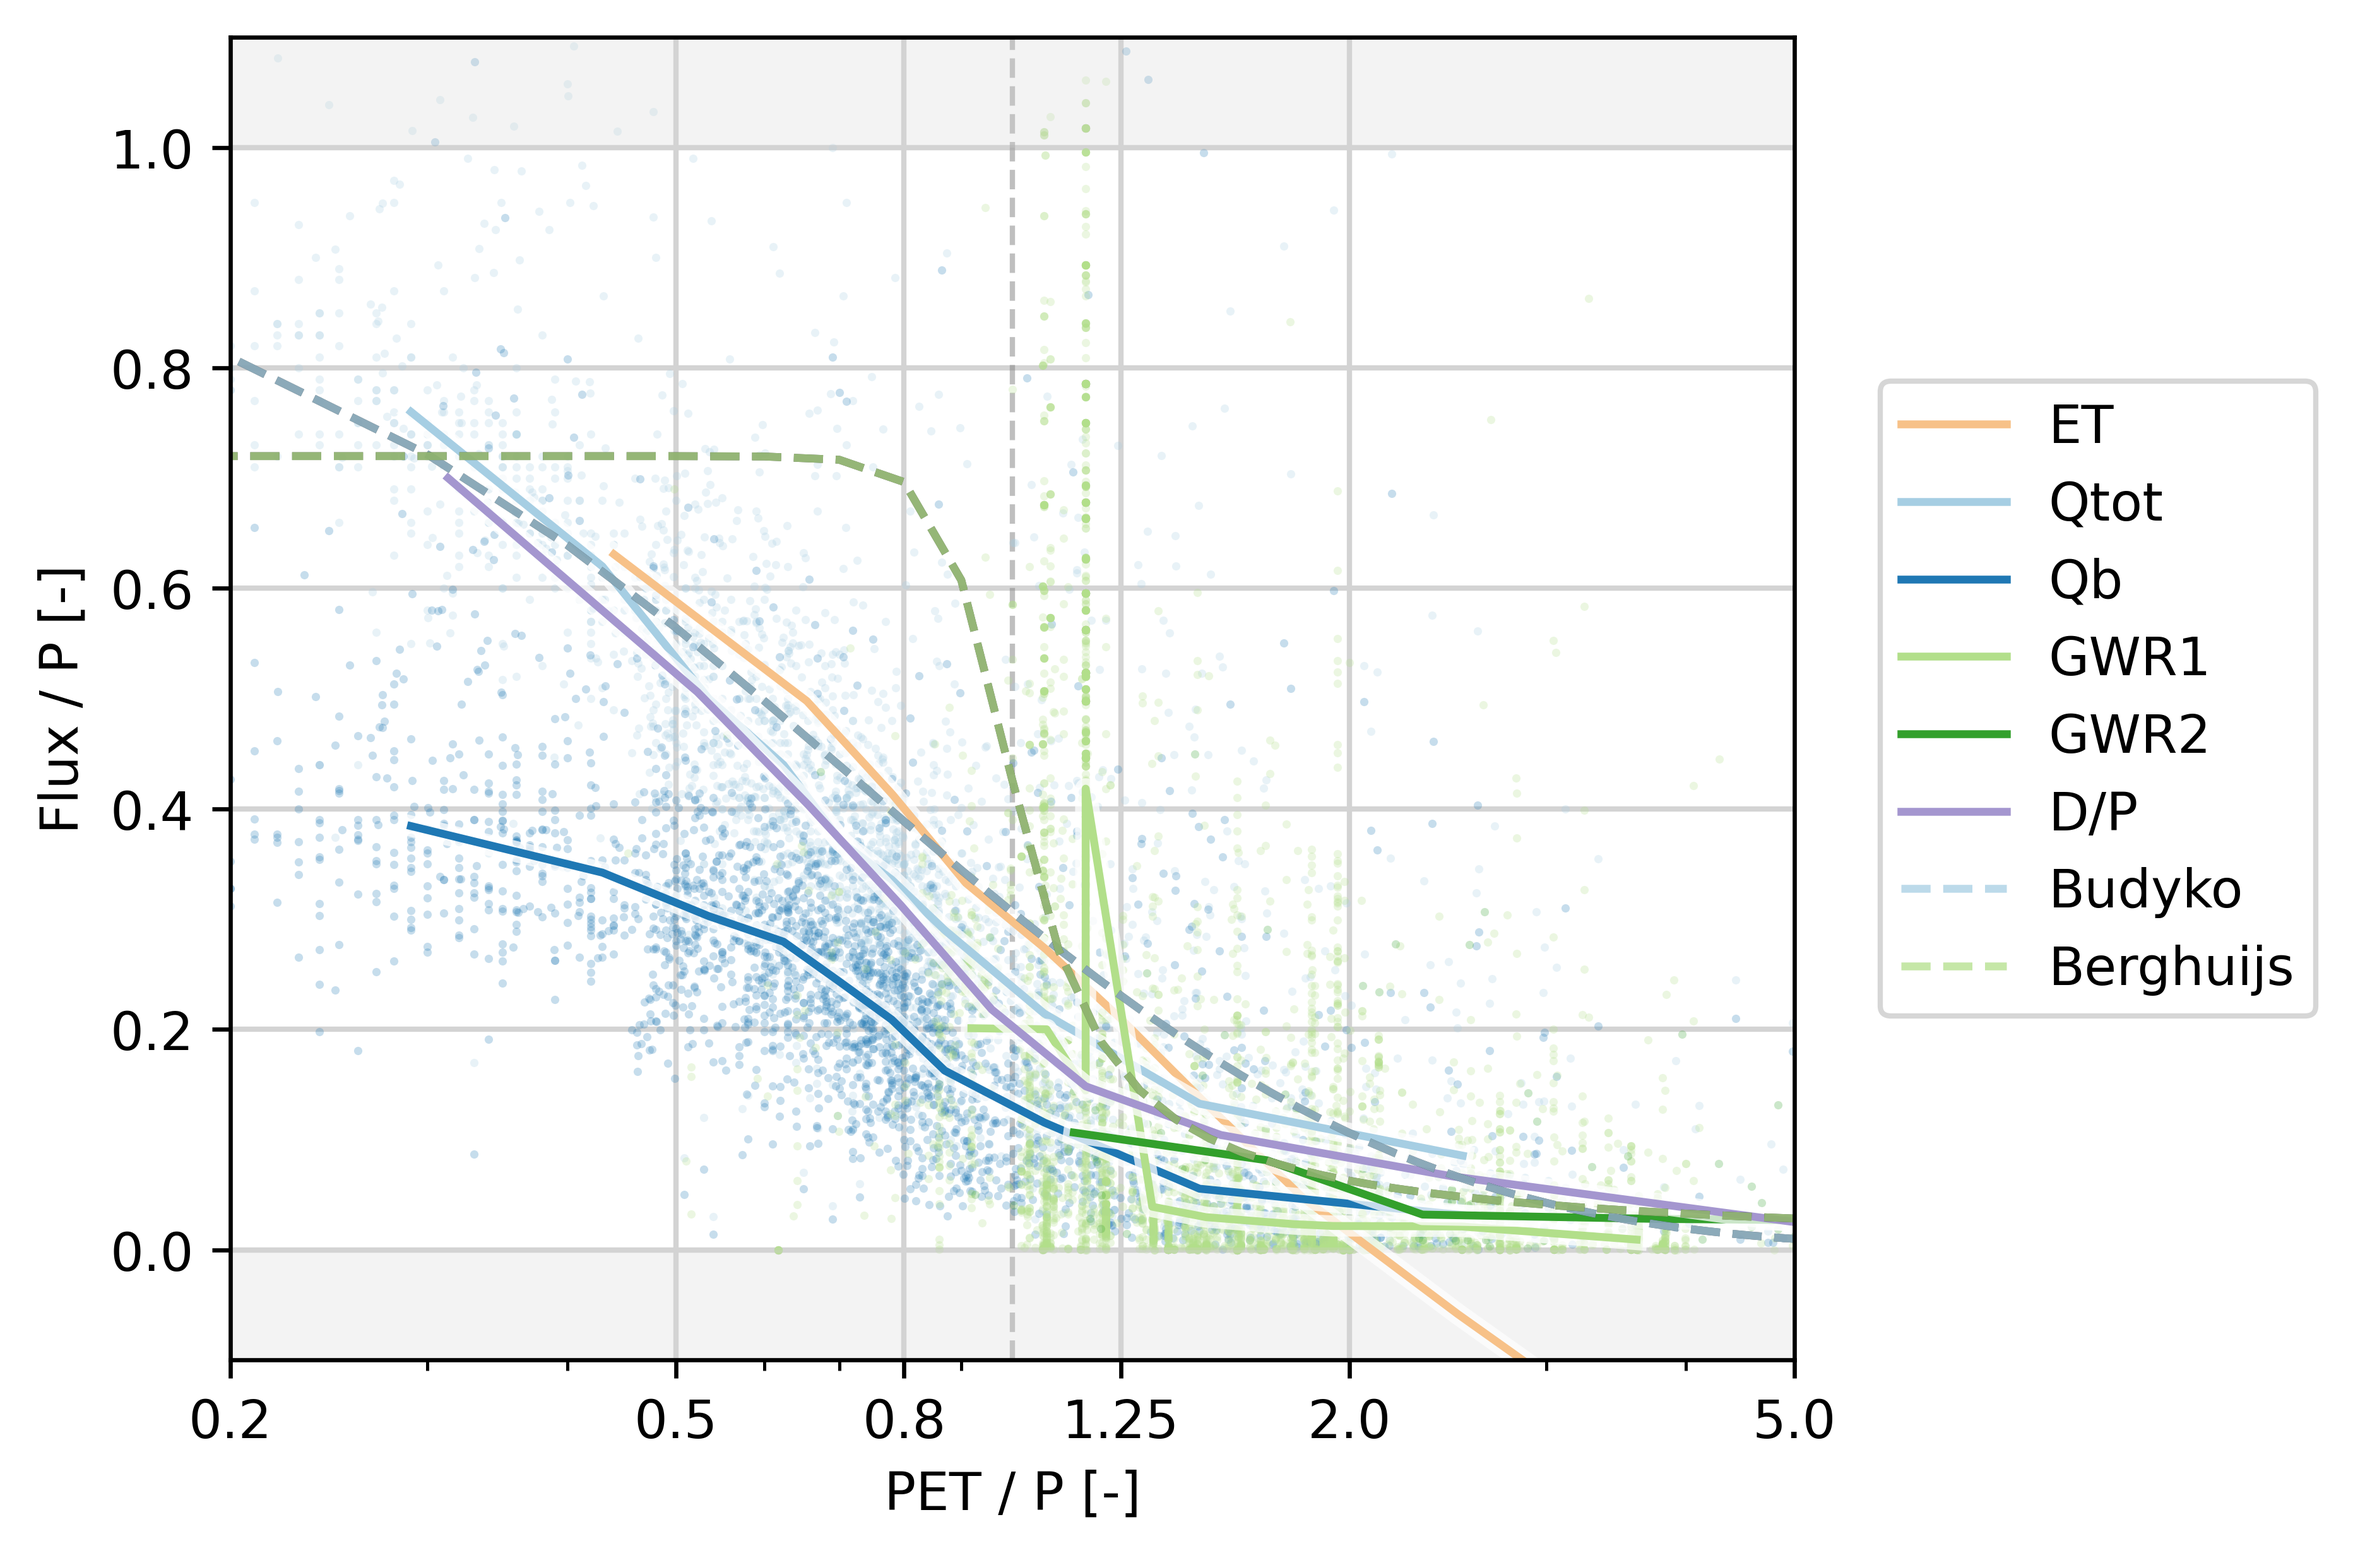
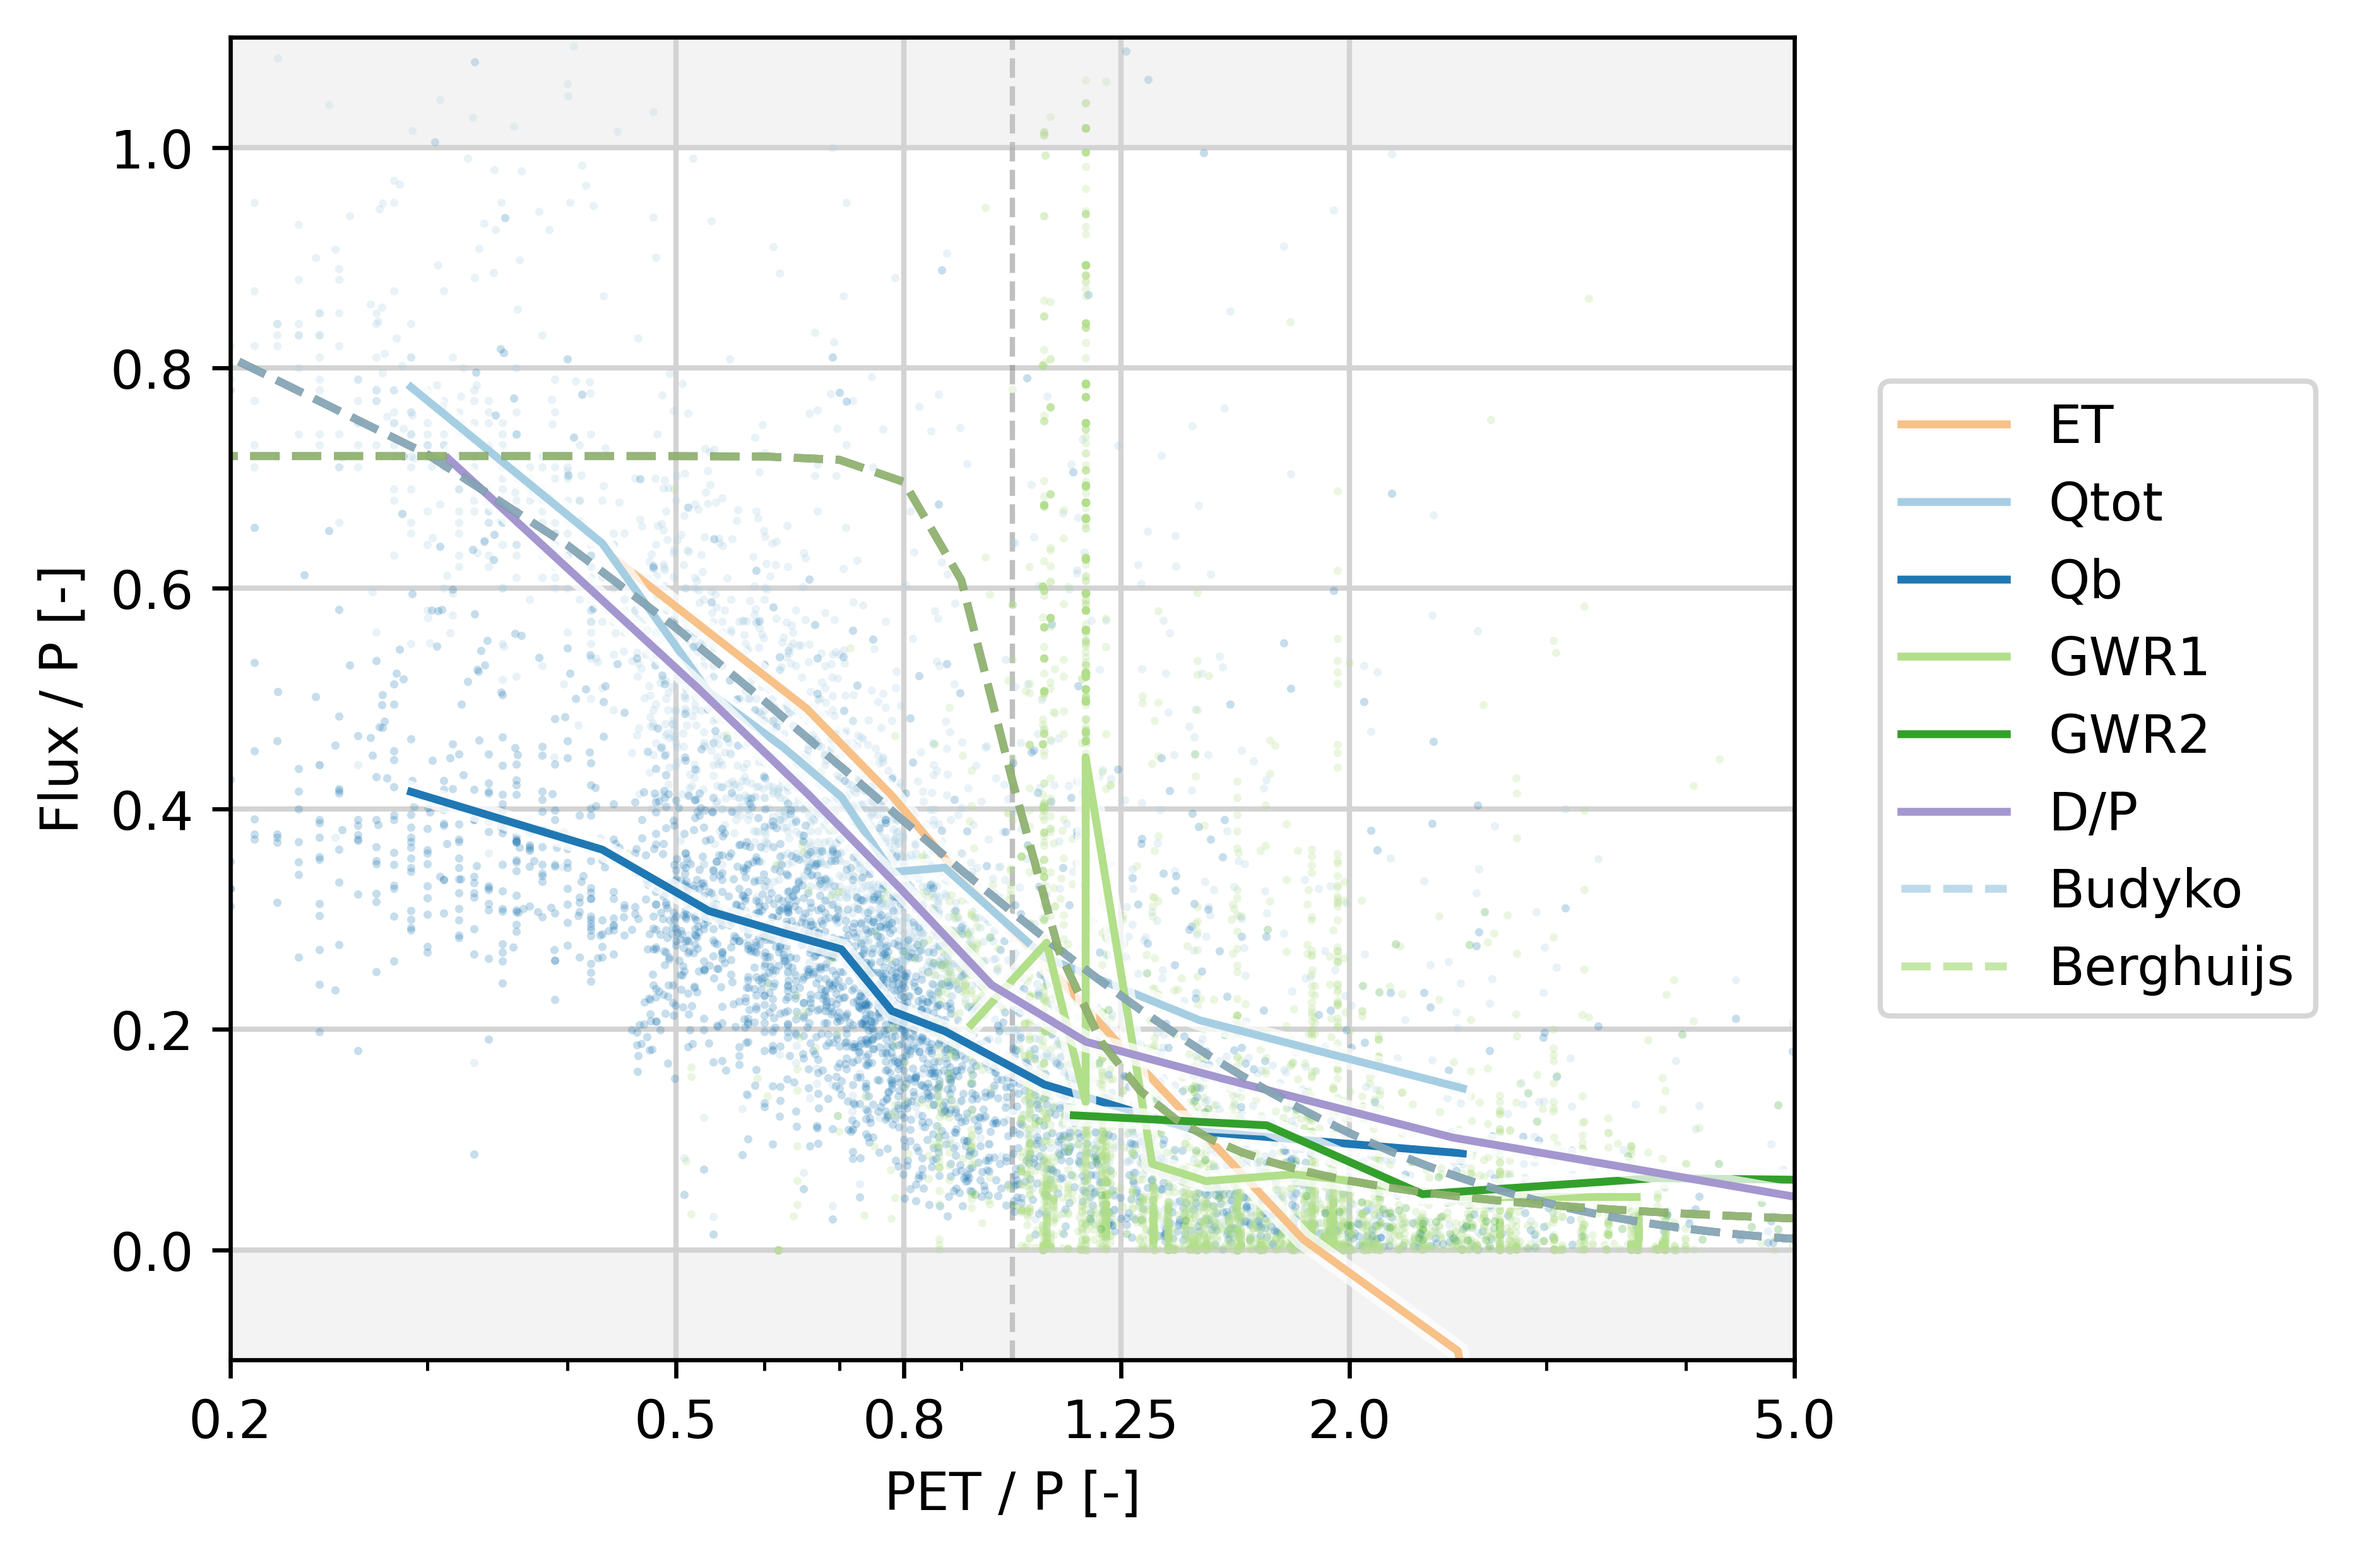
add MiguezMacho data

Changed region(s): [[0.1556, 0.2495, 0.7779, 0.8732], [0.1556, 0.499, 0.3112, 0.5925]]

diff --git a/MiguezMachoData.py b/MiguezMachoData.py
@@ -22,8 +22,92 @@ if not os.path.isdir(figures_path):
 
 # load data
 data_path = "D:/Data/MiguezMacho2021/"
-df = ds = xr.open_dataset(data_path + "AUSTRALIA_sources_annualmean.nc")
-df = ds.to_dataframe()
+path = "C:/Users/gnann/Documents/PYTHON/GHM_Comparison/"
+
+file_paths = [data_path + "EURASIA_sources_annualmean.nc",
+              data_path + "AFRICA_sources_annualmean.nc",
+              data_path + "AUSTRALIA_sources_annualmean.nc",
+              data_path + "NAMERICA_sources_annualmean.nc",
+              data_path + "SAMERICA_sources_annualmean.nc"]
+
+name = 'ALL'
+#file_paths = [data_path + "AUSTRALIA_sources_annualmean.nc"]
+
+df_list = []
+for f in file_paths:
+    ds_tmp = xr.open_dataset(f)
+
+    df_tmp = ds_tmp.to_dataframe()
+    df_tmp = df_tmp.loc[df_tmp["mask"] != 0]
+    df_tmp = df_tmp.sample(n=int(len(df_tmp)/1000)).reset_index()
+
+    df_list.append(df_tmp)
+
+df = pd.concat(df_list)
+
 print("Finished loading data.")
 
+gdf = gpd.GeoDataFrame(df)
+geometry = [Point(xy) for xy in zip(df.lon, df.lat)]
+gdf = gpd.GeoDataFrame(df, geometry=geometry)
 
+df_domains = pd.read_csv(path + "model_outputs/2b/aggregated/domains.csv", sep=',')
+geometry = [Point(xy) for xy in zip(df_domains.lon, df_domains.lat)]
+gdf_domains = gpd.GeoDataFrame(df_domains, geometry=geometry)
+
+closest = get_nearest_neighbour.nearest_neighbor(gdf, gdf_domains, return_dist=True)
+closest = closest.rename(columns={'geometry': 'closest_geom'})
+df = gdf.join(closest, rsuffix='domains') # merge the datasets by index (for this, it is good to use '.join()' -function)
+
+print("Finished MiguezMacho.")
+
+# plot standard Budyko plot
+fig = plt.figure(figsize=(6, 4), constrained_layout=True)
+axes = plt.axes()
+# ticks
+im = axes.scatter(df["aridity_netrad_gswp3"], (df["ET"]*365/df["pr_gswp3"]), s=2.5, c="grey", alpha=0.1, lw=0)
+plotting_fcts.plot_lines_group(df["aridity_netrad_gswp3"], (df["ET"]*365/df["pr_gswp3"]), "grey", n=11, statistic='mean', label='ET')
+im = axes.scatter(df["aridity_netrad_gswp3"], df["SOURCE1"]*(df["ET"]*365/df["pr_gswp3"]), s=2.5, c="tab:orange", alpha=0.1, lw=0)
+plotting_fcts.plot_lines_group(df["aridity_netrad_gswp3"], df["SOURCE1"]*(df["ET"]*365/df["pr_gswp3"]), "tab:orange", n=11, statistic='mean', label='Source 1')
+im = axes.scatter(df["aridity_netrad_gswp3"], df["SOURCE2"]*(df["ET"]*365/df["pr_gswp3"]), s=2.5, c="tab:blue", alpha=0.1, lw=0)
+plotting_fcts.plot_lines_group(df["aridity_netrad_gswp3"], df["SOURCE2"]*(df["ET"]*365/df["pr_gswp3"]), "tab:blue", n=11, statistic='mean', label='Source 2')
+im = axes.scatter(df["aridity_netrad_gswp3"], df["SOURCE3"]*(df["ET"]*365/df["pr_gswp3"]), s=2.5, c="tab:purple", alpha=0.1, lw=0)
+plotting_fcts.plot_lines_group(df["aridity_netrad_gswp3"], df["SOURCE3"]*(df["ET"]*365/df["pr_gswp3"]), "tab:purple", n=11, statistic='mean', label='Source 3')
+im = axes.scatter(df["aridity_netrad_gswp3"], df["SOURCE4"]*(df["ET"]*365/df["pr_gswp3"]), s=2.5, c="tab:brown", alpha=0.1, lw=0)
+plotting_fcts.plot_lines_group(df["aridity_netrad_gswp3"], df["SOURCE4"]*(df["ET"]*365/df["pr_gswp3"]), "tab:brown", n=11, statistic='mean', label='Source 4')
+axes.set_xlabel("PET / P [-]")
+axes.set_ylabel("Flux / P [-]")
+axes.set_xlim([0.2, 10])
+#axes.set_xlim([0, 5])
+axes.set_ylim([-0.1, 1.5])
+axes.legend(loc='center right', bbox_to_anchor=(1.35, 0.5))
+axes.set_xscale('log')
+plotting_fcts.plot_grid(axes)
+fig.savefig(figures_path + "MiguezMacho_" + name + ".png", dpi=600, bbox_inches='tight')
+plt.close()
+
+
+# plot ET as function of aridity
+fig = plt.figure(figsize=(6, 4), constrained_layout=True)
+axes = plt.axes()
+# ticks
+im = axes.scatter(df["aridity_netrad_gswp3"], (df["ET"]*365), s=2.5, c="grey", alpha=0.1, lw=0)
+plotting_fcts.plot_lines_group(df["aridity_netrad_gswp3"], (df["ET"]*365), "grey", n=11, statistic='mean', label='ET')
+im = axes.scatter(df["aridity_netrad_gswp3"], df["SOURCE1"]*(df["ET"]*365), s=2.5, c="tab:orange", alpha=0.1, lw=0)
+plotting_fcts.plot_lines_group(df["aridity_netrad_gswp3"], df["SOURCE1"]*(df["ET"]*365), "tab:orange", n=11, statistic='mean', label='Source 1')
+im = axes.scatter(df["aridity_netrad_gswp3"], df["SOURCE2"]*(df["ET"]*365), s=2.5, c="tab:blue", alpha=0.1, lw=0)
+plotting_fcts.plot_lines_group(df["aridity_netrad_gswp3"], df["SOURCE2"]*(df["ET"]*365), "tab:blue", n=11, statistic='mean', label='Source 2')
+im = axes.scatter(df["aridity_netrad_gswp3"], df["SOURCE3"]*(df["ET"]*365), s=2.5, c="tab:purple", alpha=0.1, lw=0)
+plotting_fcts.plot_lines_group(df["aridity_netrad_gswp3"], df["SOURCE3"]*(df["ET"]*365), "tab:purple", n=11, statistic='mean', label='Source 3')
+im = axes.scatter(df["aridity_netrad_gswp3"], df["SOURCE4"]*(df["ET"]*365), s=2.5, c="tab:brown", alpha=0.1, lw=0)
+plotting_fcts.plot_lines_group(df["aridity_netrad_gswp3"], df["SOURCE4"]*(df["ET"]*365), "tab:brown", n=11, statistic='mean', label='Source 4')
+axes.set_xlabel("PET / P [-]")
+axes.set_ylabel("Flux [-]")
+axes.set_xlim([0.2, 10])
+#axes.set_xlim([0, 5])
+axes.set_ylim([-0.1, 1500])
+axes.legend(loc='center right', bbox_to_anchor=(1.35, 0.5))
+axes.set_xscale('log')
+plotting_fcts.plot_grid(axes)
+fig.savefig(figures_path + "MiguezMacho_ET_" + name + ".png", dpi=600, bbox_inches='tight')
+plt.close()

diff --git a/functions/plotting_fcts.py b/functions/plotting_fcts.py
@@ -20,7 +20,7 @@ def plot_Budyko_limits(x, y, **kwargs):
     ax.plot(np.linspace(1, lim, 100), np.linspace(1, 1, 100), '--', c='gray')
 
 
-def plot_lines_group(x, y, color, n=11, label='', **kwargs):
+def plot_lines_group(x, y, color, n=11, label='', statistic='mean', **kwargs):
 
     import matplotlib.patheffects as mpe
     outline = mpe.withStroke(linewidth=4, foreground='white', alpha=0.75)
@@ -49,7 +49,13 @@ def plot_lines_group(x, y, color, n=11, label='', **kwargs):
     ax = plt.gca()
     #ax.errorbar(bin_median, median_stat.statistic, xerr=None, yerr=asymmetric_error, capsize=2,
     #            fmt='o', ms=4, elinewidth=1, c='black', ecolor='black', mec='black', mfc=color, alpha=0.9, label=corr_str)
-    ax.plot(bin_median, median_stat.statistic, color=color, path_effects=[outline], label=label)
+    if statistic == 'median':
+        ax.plot(bin_median, median_stat.statistic, color=color, path_effects=[outline], label=label)
+    elif statistic == 'mean':
+        ax.plot(bin_median, mean_stat.statistic, color=color, path_effects=[outline], label=label)
+    else:
+        print('incorrect statistic - using median')
+        ax.plot(bin_median, median_stat.statistic, color=color, path_effects=[outline], label=label)
     #ax.fill_between(bin_median, p_25_stat.statistic, p_75_stat.statistic, facecolor=color, alpha=0.1)
     #ax.fill_between(bin_median, p_05_stat.statistic, p_95_stat.statistic, facecolor=color, alpha=0.1)
 
